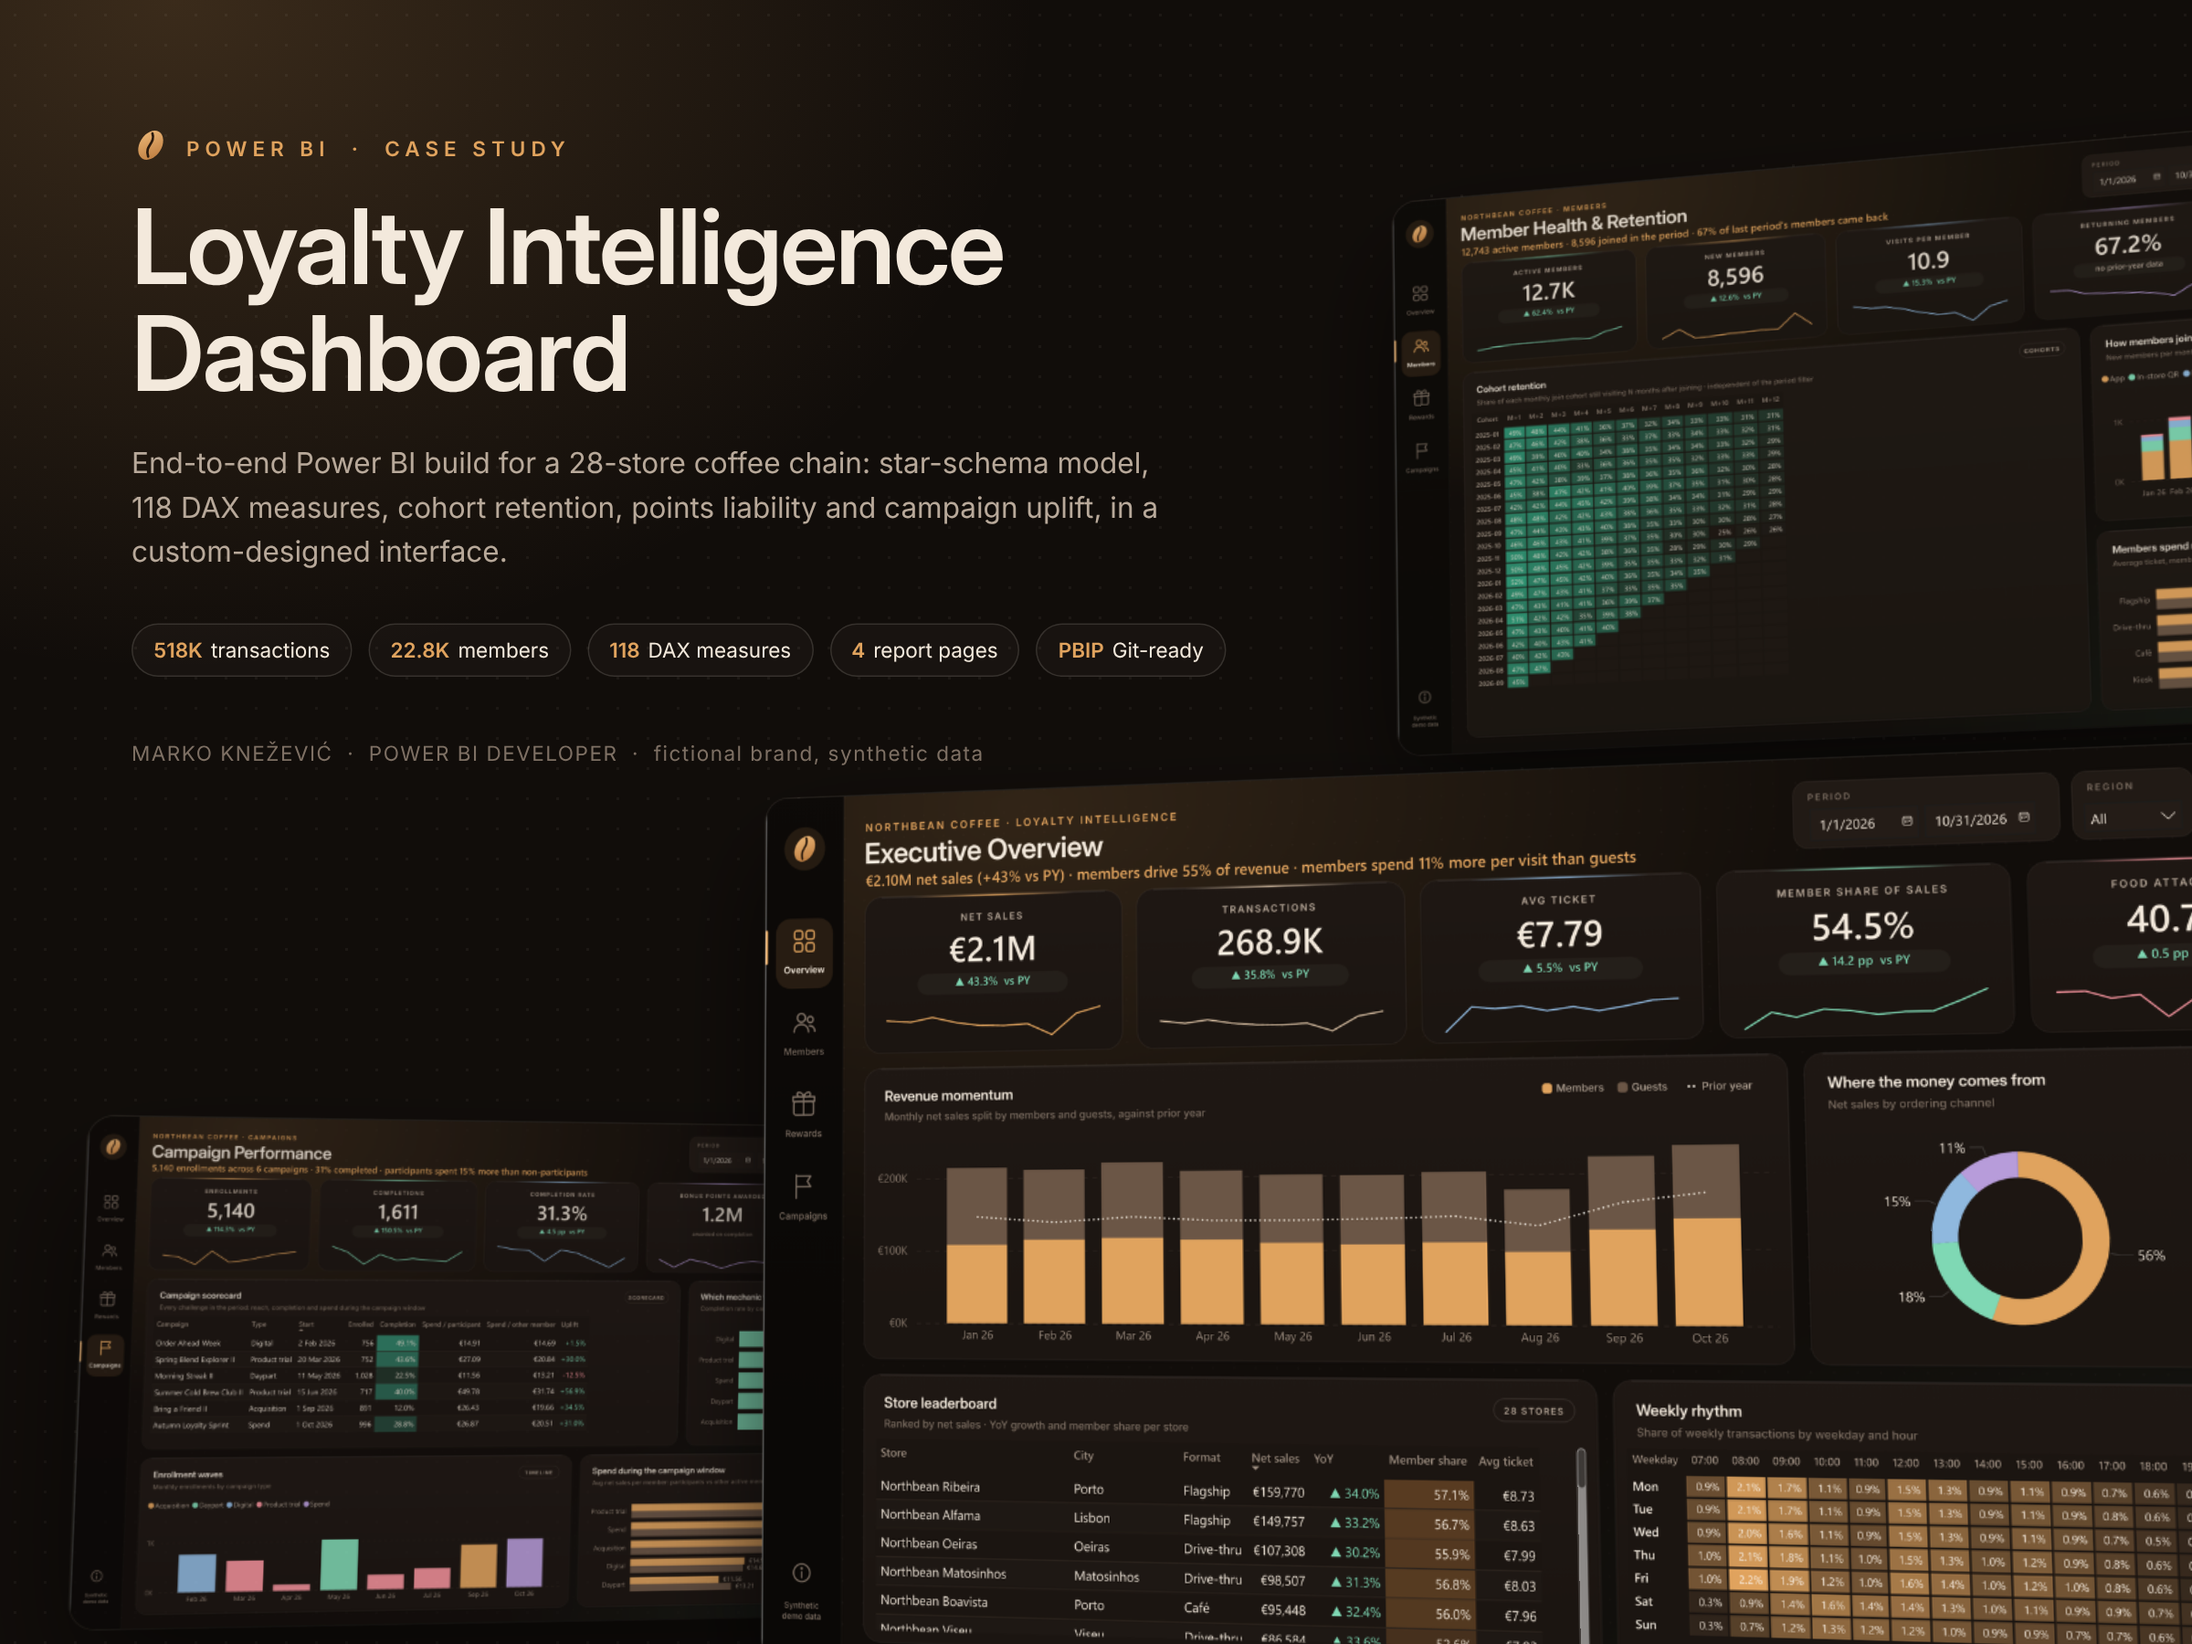
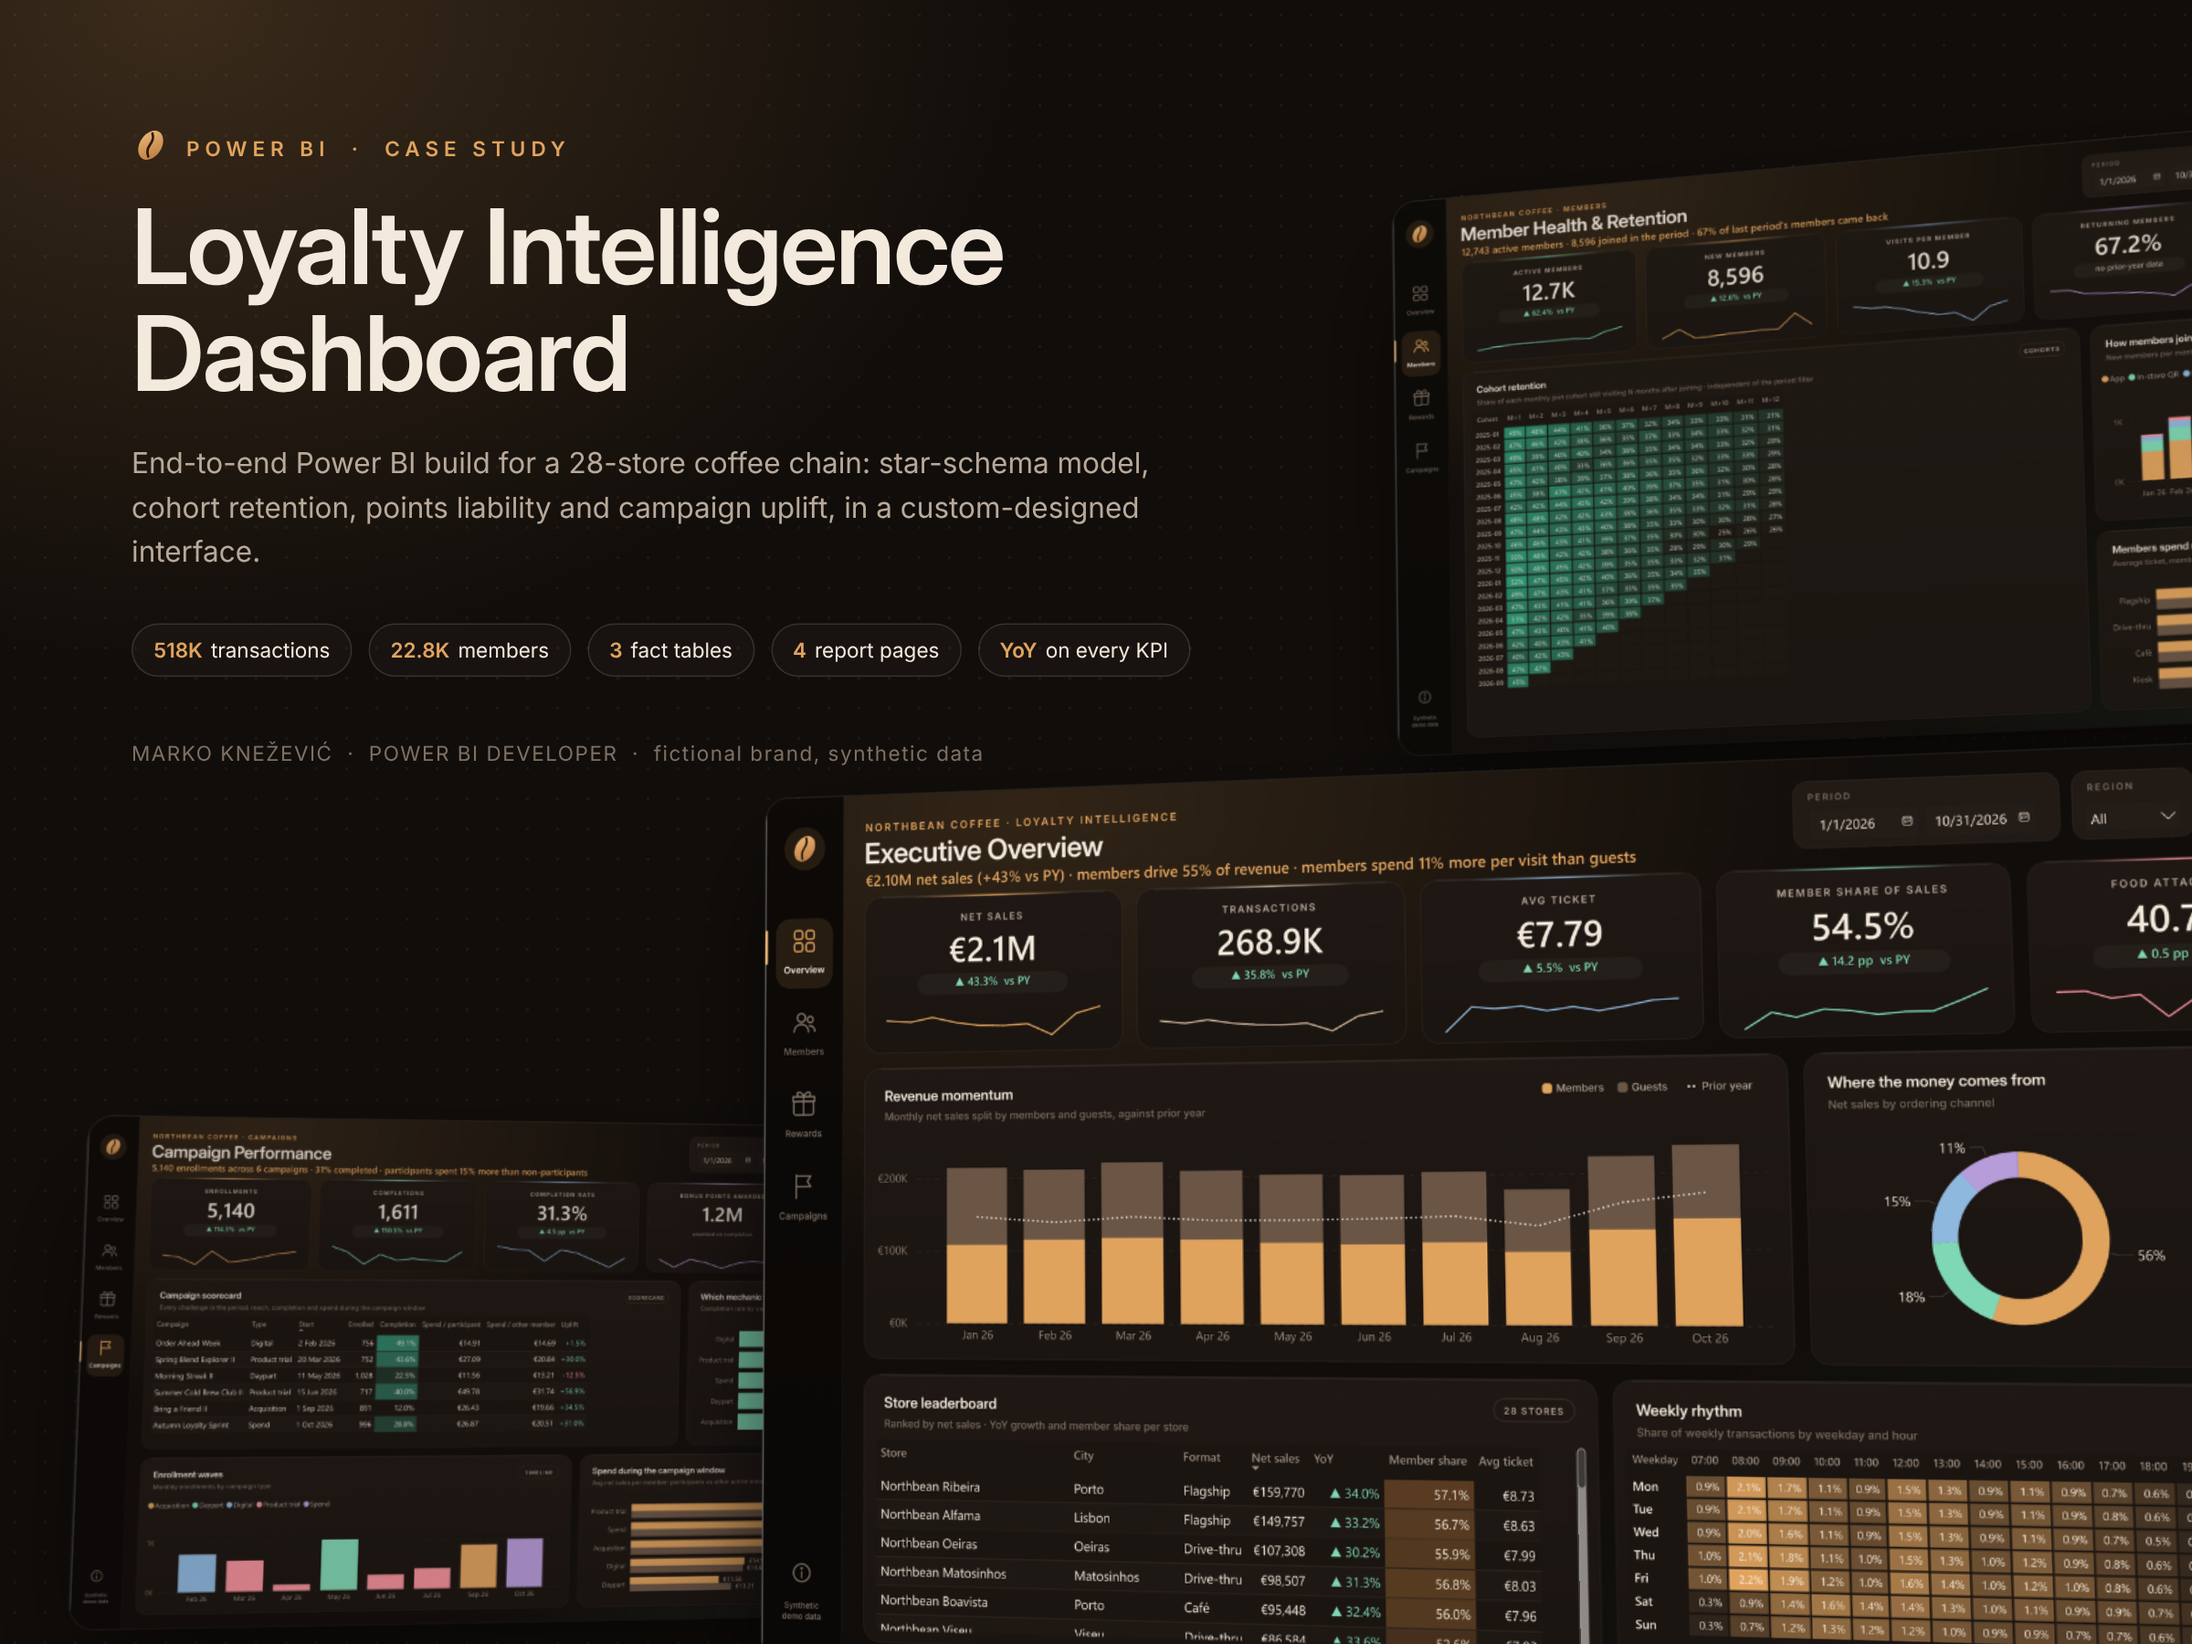
Image cleanup

Changed region(s): [[0.0625, 0.28, 0.4062, 0.3422], [0.2812, 0.3733, 0.5625, 0.4044], [0.4375, 0.28, 0.5312, 0.3422]]

diff --git a/README.md b/README.md
@@ -30,7 +30,7 @@ Each page also has a **headline sentence written by DAX** that summarises the cu
 - **Dimensions:** `Calendar` (a DAX date table, marked as the date table), `Stores`, `Members`, `Rewards`, `Campaigns`
 - **Disconnected axis:** `Cohort Offset` (M+1 … M+12), used by the cohort matrix
 - **Inactive relationship:** `Campaign Enrollments[CompletedDate]`, activated with `USERELATIONSHIP` for bonus points; new members by join date use `TREATAS`
-- **No implicit measures.** All 118 measures sit in one `_Measures` table, organised into display folders:
+- **No implicit measures.** All measures sit in one `_Measures` table, organised into display folders:
   - **Sales:** net sales, ticket, member share, food attach rate, traffic share
   - **Members:** active members, new members, returning % (vs the previous period of the same length), at-risk members (last visit 45–120 days ago), cohort retention
   - **Rewards:** points issued (purchases + campaign bonuses), redeemed, redemption rate, running liability, reward investment %
